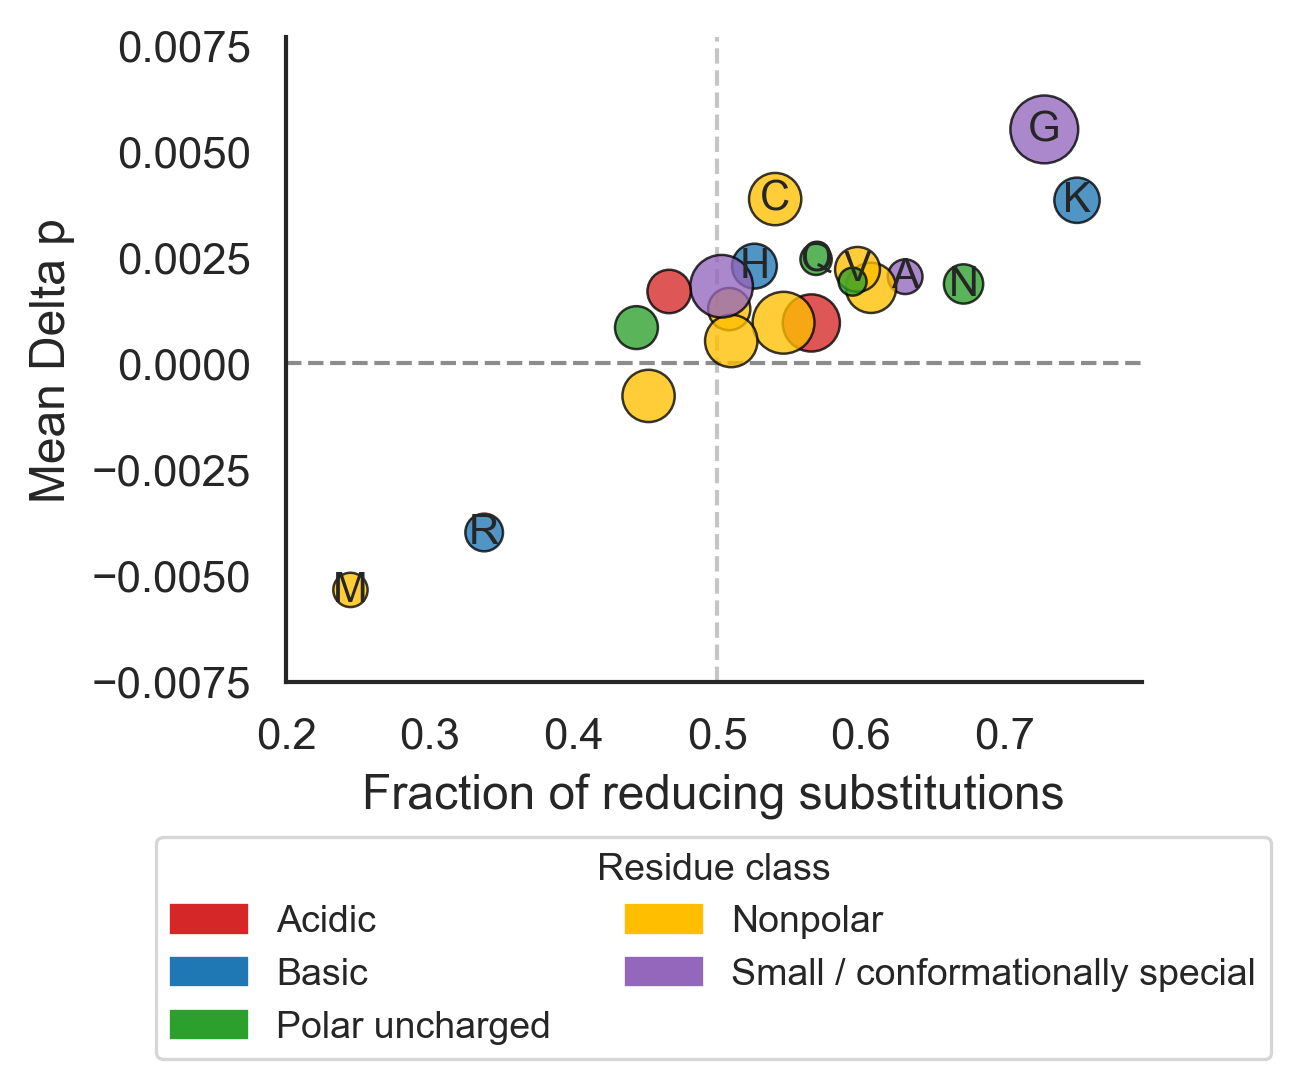
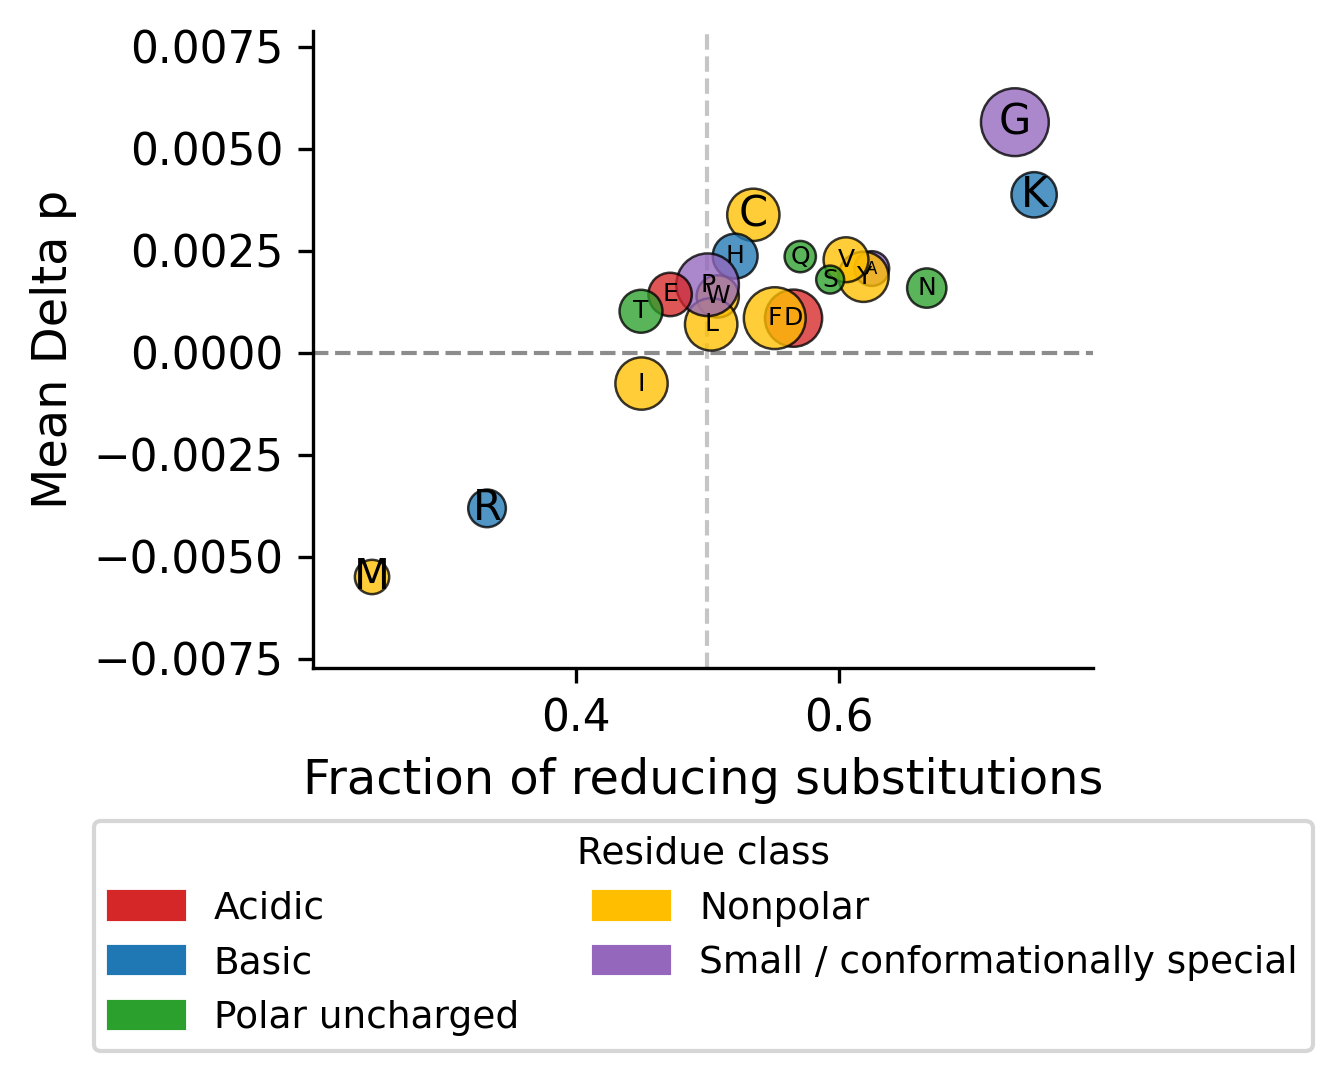
Refine transition residue scatter labels

diff --git a/src/xallergen/plotting_insilico_mutagenesis.py b/src/xallergen/plotting_insilico_mutagenesis.py
@@ -221,17 +221,8 @@ def _summarize_transition_residues(frame: pd.DataFrame) -> pd.DataFrame:
     )
 
 
-def _select_labels_for_scatter(
-    frame: pd.DataFrame,
-    n_top_delta: int = 6,
-    n_top_fraction: int = 4,
-    always_label: tuple[str, ...] = ("G", "K", "A", "Q", "M", "R"),
-) -> set[str]:
-    labels = set(always_label)
-    labels.update(frame.nlargest(n_top_delta, "mean_delta_p_all")["original_aa"].astype(str).tolist())
-    labels.update(frame.nlargest(n_top_fraction, "frac_reducing")["original_aa"].astype(str).tolist())
-    labels.update(frame.nsmallest(2, "mean_delta_p_all")["original_aa"].astype(str).tolist())
-    return labels
+def _select_labels_for_scatter(frame: pd.DataFrame) -> set[str]:
+    return set(frame["original_aa"].astype(str))
 
 
 def _summarize_top_supported_transitions(frame: pd.DataFrame, top_n: int = 10) -> pd.DataFrame:
@@ -483,25 +474,39 @@ def _plot_transition_scatter(summary_df: pd.DataFrame, output_path: Path) -> Non
         sizes = 45 + 220 * ((df["n_total"] - df["n_total"].min()) / (df["n_total"].max() - df["n_total"].min()))
     else:
         sizes = np.full(len(df), 120.0)
-    rng = np.random.default_rng(42)
-    x_span = df["frac_reducing"].max() - df["frac_reducing"].min()
-    y_span = df["mean_delta_p_all"].max() - df["mean_delta_p_all"].min()
-    df["plot_x"] = df["frac_reducing"] + rng.normal(0, max(0.003, 0.012 * x_span), size=len(df))
-    df["plot_y"] = df["mean_delta_p_all"] + rng.normal(0, max(0.00015, 0.020 * y_span), size=len(df))
+    df["plot_x"] = df["frac_reducing"]
+    df["plot_y"] = df["mean_delta_p_all"]
 
     fig, ax = plt.subplots(figsize=(ICML_ONE_COLUMN_WIDTH, PAPER_TALL_HEIGHT))
     ax.scatter(df["plot_x"], df["plot_y"], s=sizes, c=colors, alpha=0.78, edgecolors="black", linewidth=0.6, zorder=3)
     ax.axhline(0, color="black", linewidth=1, linestyle="--", alpha=0.45, zorder=1)
     ax.axvline(0.5, color="gray", linewidth=1, linestyle="--", alpha=0.45, zorder=1)
-    residues_to_label = _select_labels_for_scatter(df)
     texts = []
     for _, row in df.iterrows():
         aa = str(row["original_aa"])
-        if aa not in residues_to_label:
+        if aa not in _select_labels_for_scatter(df):
             continue
-        texts.append(ax.text(row["plot_x"], row["plot_y"], aa, fontsize=PAPER_ANNOT_FONTSIZE, ha="center", va="center", zorder=4))
+        if aa in {"G", "C", "K", "M", "R"}:
+            label_fontsize = PAPER_ANNOT_FONTSIZE
+        elif aa == "A":
+            label_fontsize = max(PAPER_ANNOT_FONTSIZE - 7, 4)
+        elif aa == "Y":
+            label_fontsize = max(PAPER_ANNOT_FONTSIZE - 5, 6)
+        else:
+            label_fontsize = max(PAPER_ANNOT_FONTSIZE - 5, 6)
+        texts.append(
+            ax.text(
+                row["plot_x"],
+                row["plot_y"],
+                aa,
+                fontsize=label_fontsize,
+                ha="center",
+                va="center",
+                zorder=4,
+            )
+        )
     if adjust_text is not None and texts:
-        adjust_text(texts, ax=ax, expand_points=(1.5, 1.8), expand_text=(1.2, 1.4))
+        adjust_text(texts, ax=ax, expand_points=(1.2, 1.4), expand_text=(1.1, 1.2))
     ax.set_xlabel("Fraction of reducing substitutions")
     ax.set_ylabel("Mean Delta p")
     x_min = max(0.0, float(df["plot_x"].min()) - 0.045)